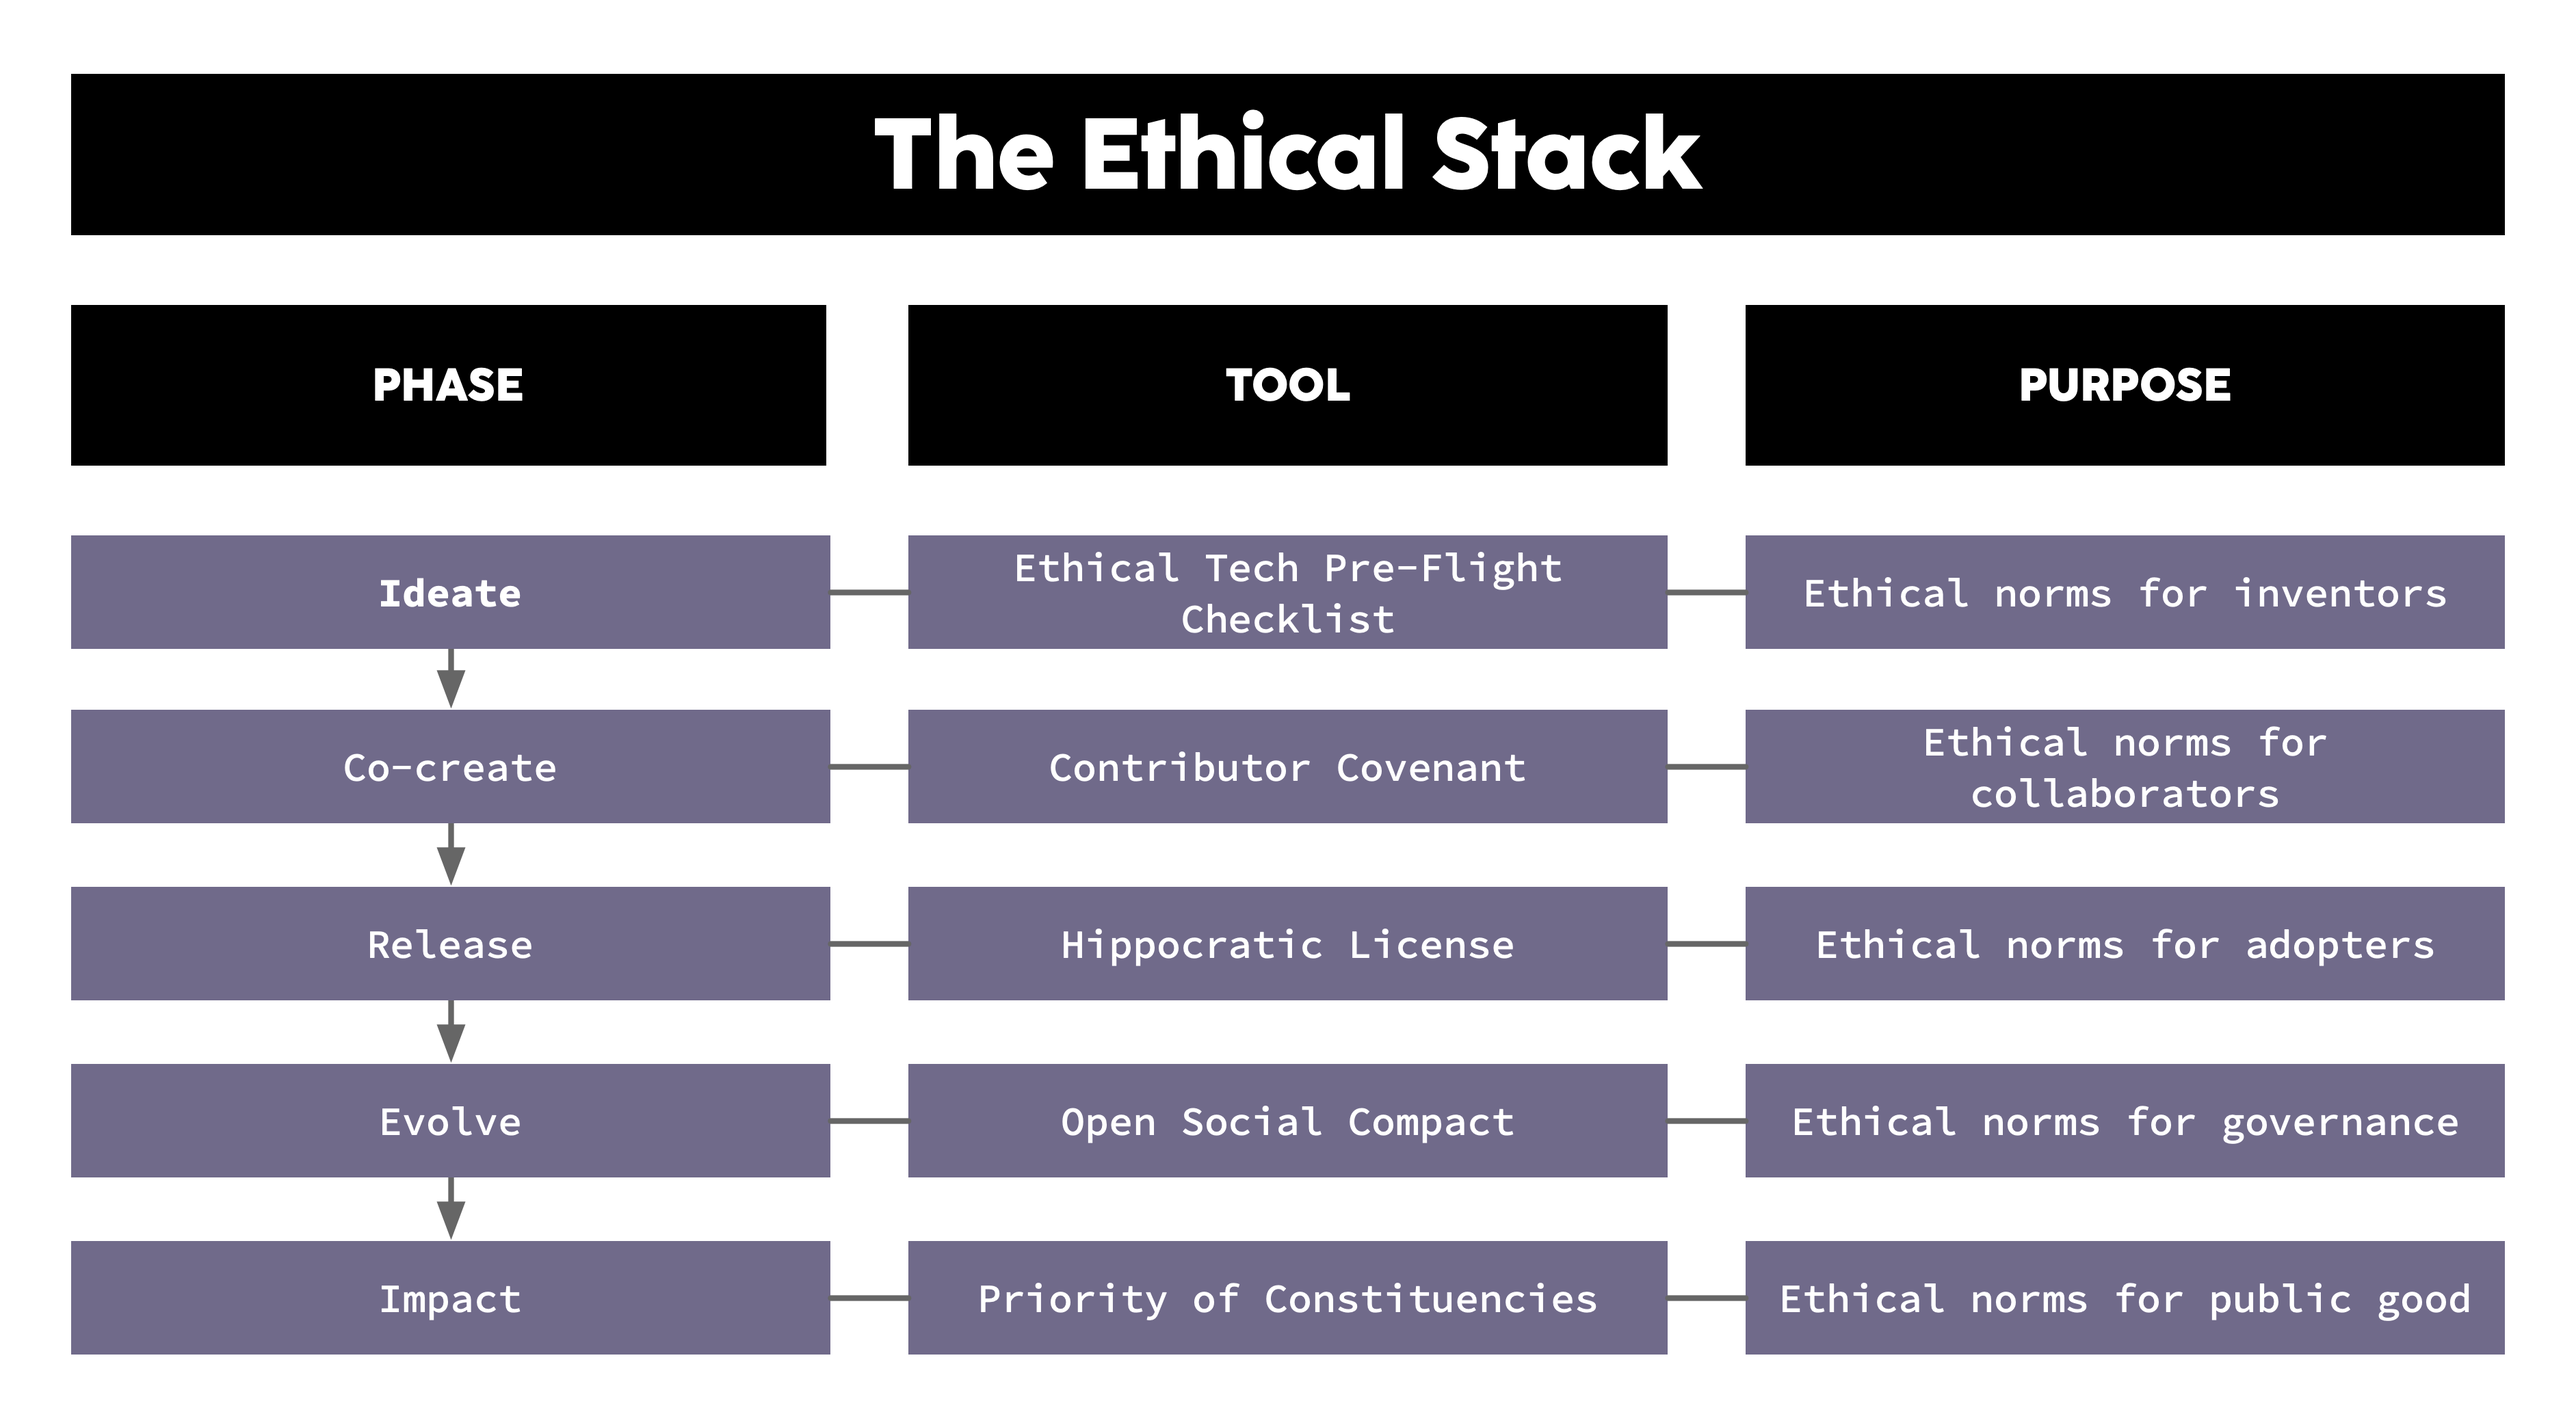
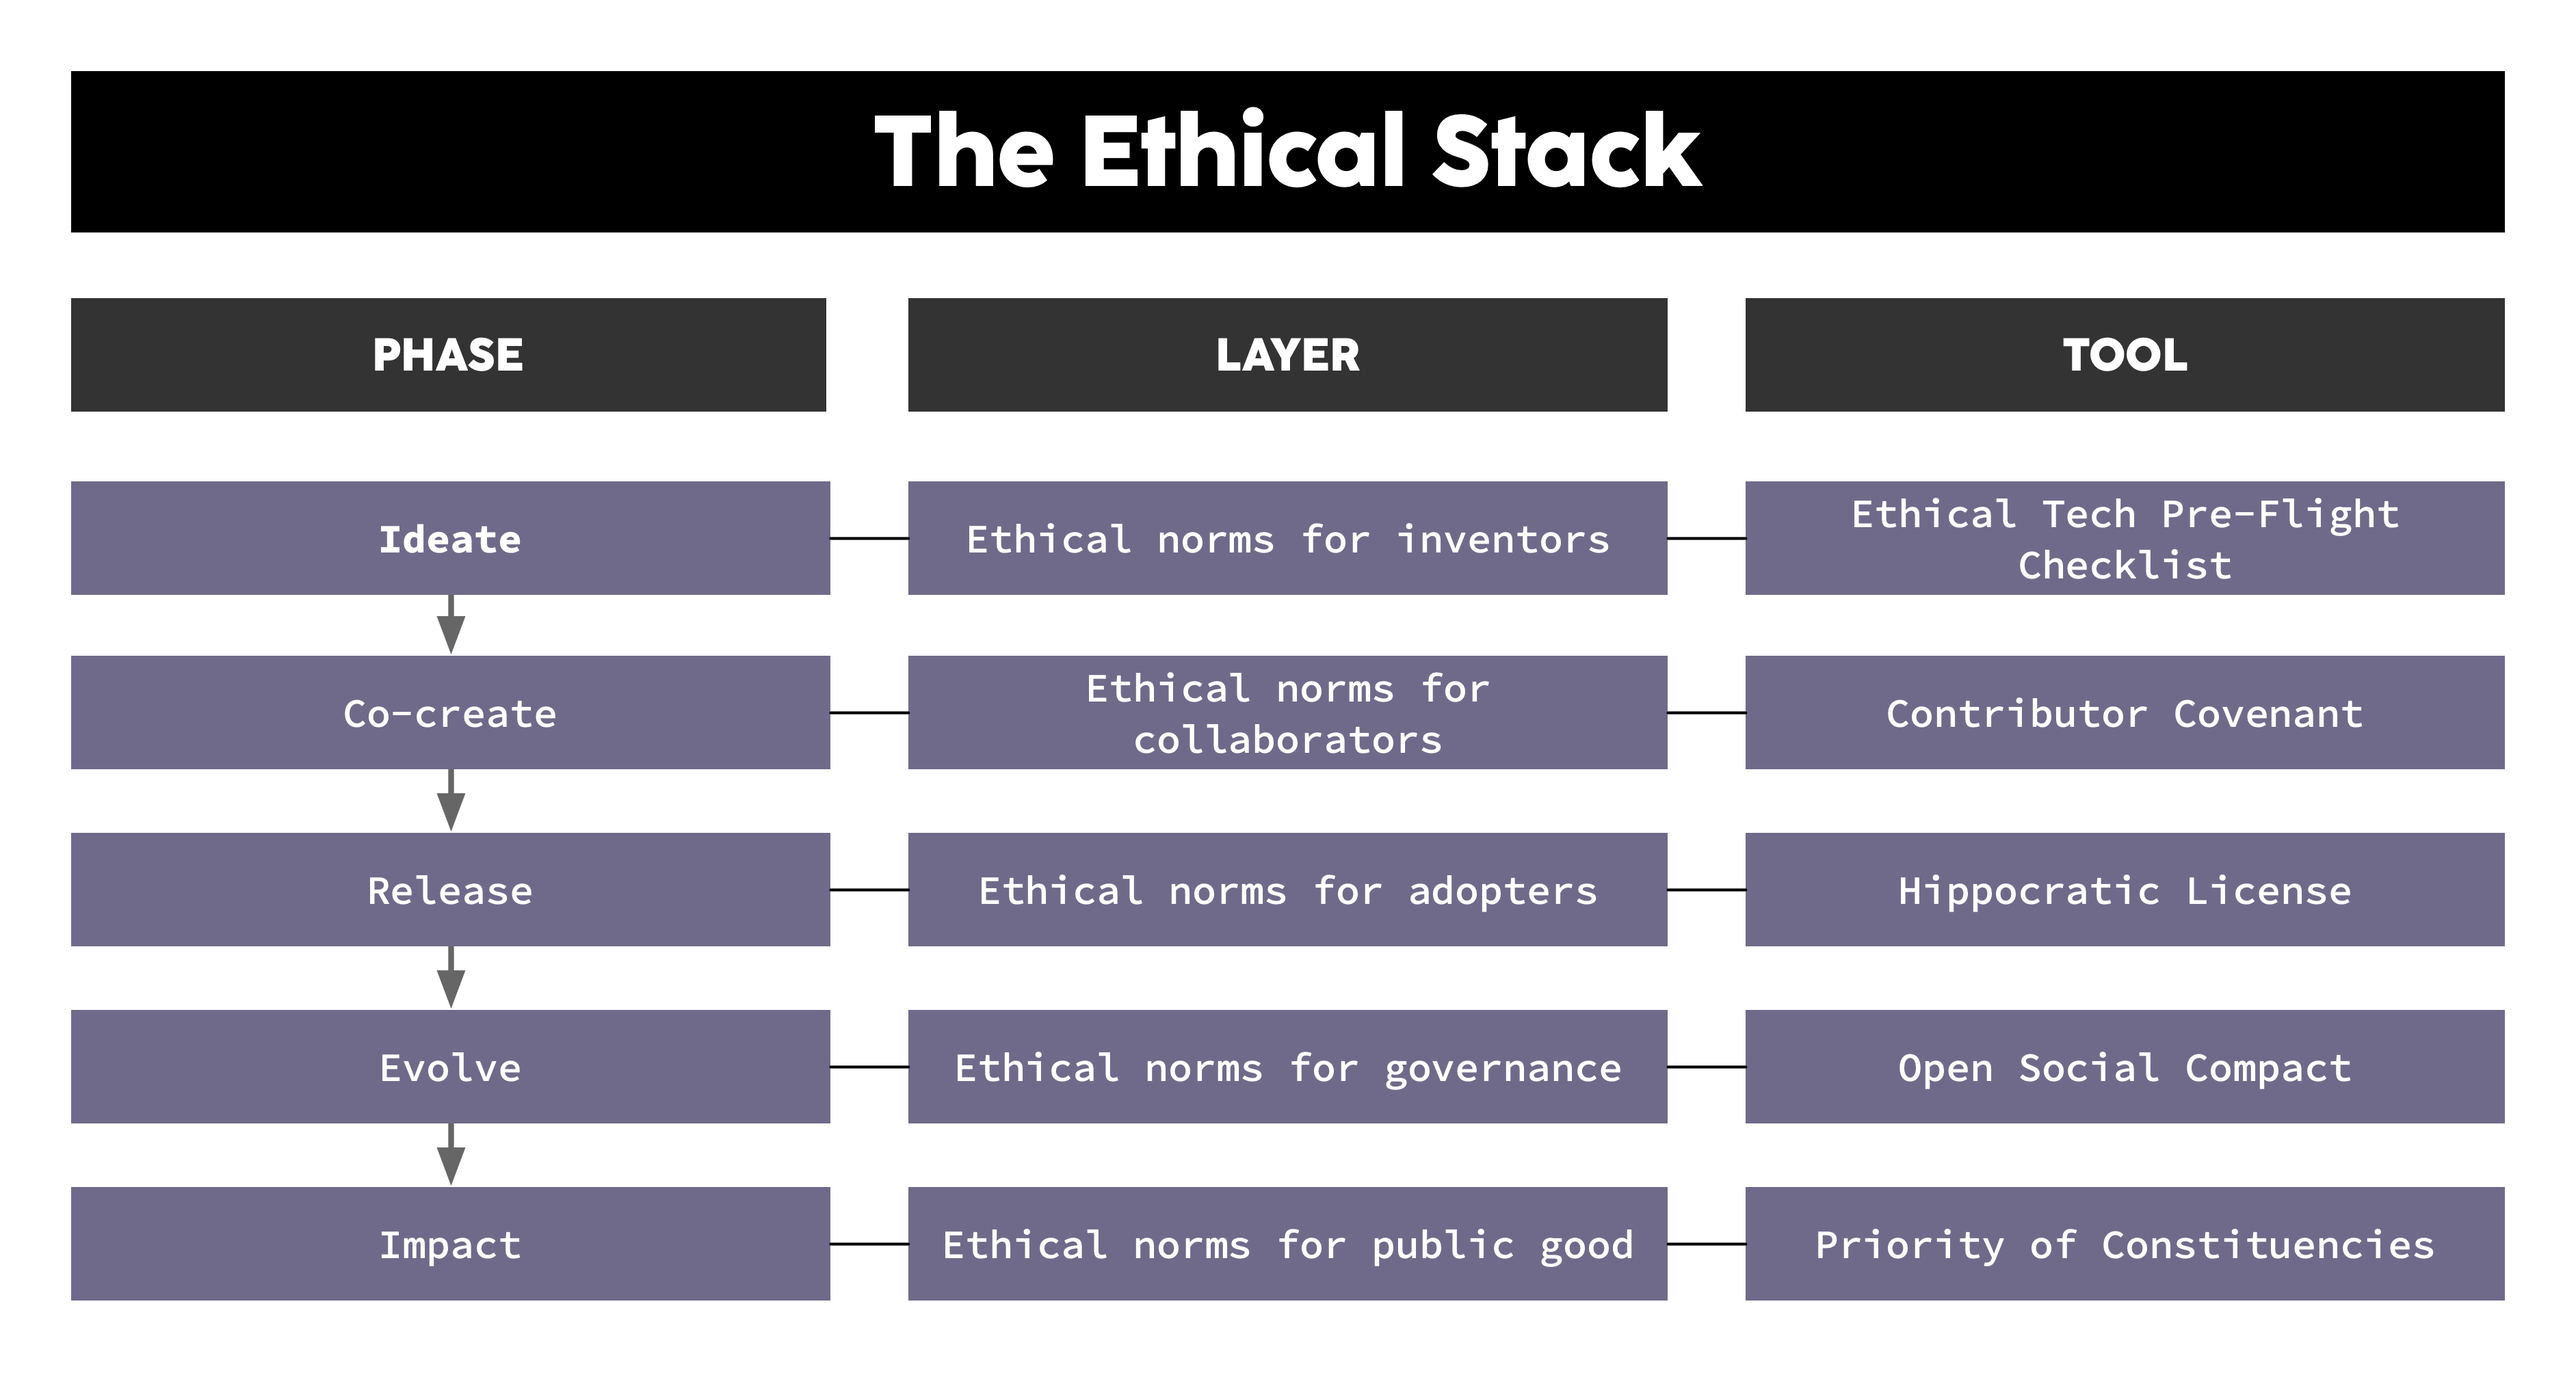
Updated the diagram to phase-layer-tool; cleaned up the language

diff --git a/content/what-we-do/_index.html b/content/what-we-do/_index.html
@@ -7,13 +7,17 @@ kicker = "Collaborating across disciplines and across borders on a shared vision
 <h2>The Ethical Stack</h2>
 
 <p>
-  The fundamental premise of our work is that working for justice and equity in tech starts "at home," within creator communities, and radiates outward from there: to collaborators, adopters, users, all the way down to the people who are most affected by these technologies.
+  The fundamental premise of our work is that promoting justice and equity in tech starts "at home," within our open source communities, and radiates outward: to collaborators, adopters, users, all the way down to the people who are directly or indirectly impacted by the technologies we bring into the world.
+</p>
+
+<p>
+  This is the philosophy behind the Ethical Stack.
 </p>
 
 <img src="/images/projects/ethical-stack/ethical-stack-web.png">
 
 <p>
-  This is the philosophy behind the Ethical Stack, a comprehensive, layered approach to centering ethics in open technologies. By adopting and adapting layers, such as codes of conduct, transparent governance, social compacts, and ethical licenses, open source communities can center and support their shared values in all the work they do.
+  The Ethical Stack is a layered approach to bringing ethical considerations to open source. By combining layers, open source communities can choose the tools that best suit their needs and reflect their shared values.
 </p>
 
 
